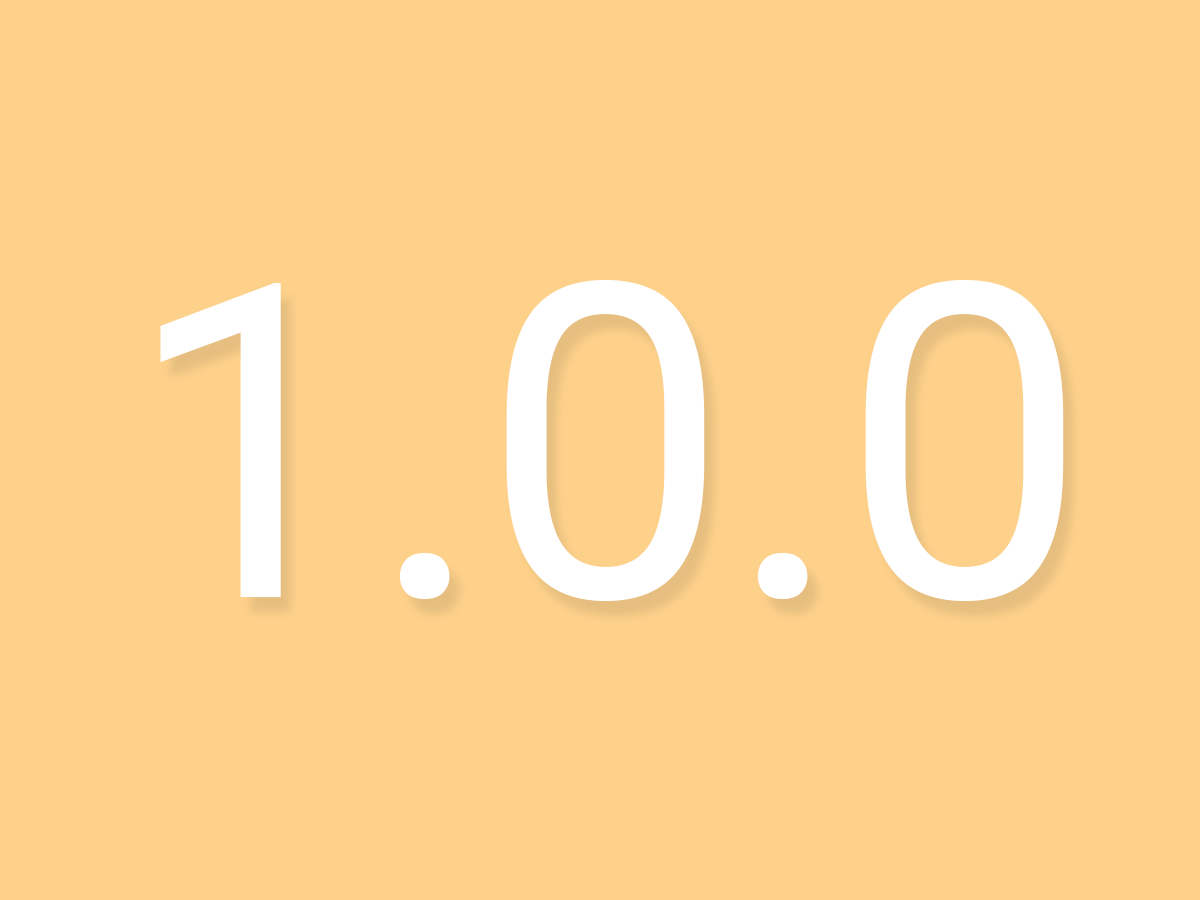
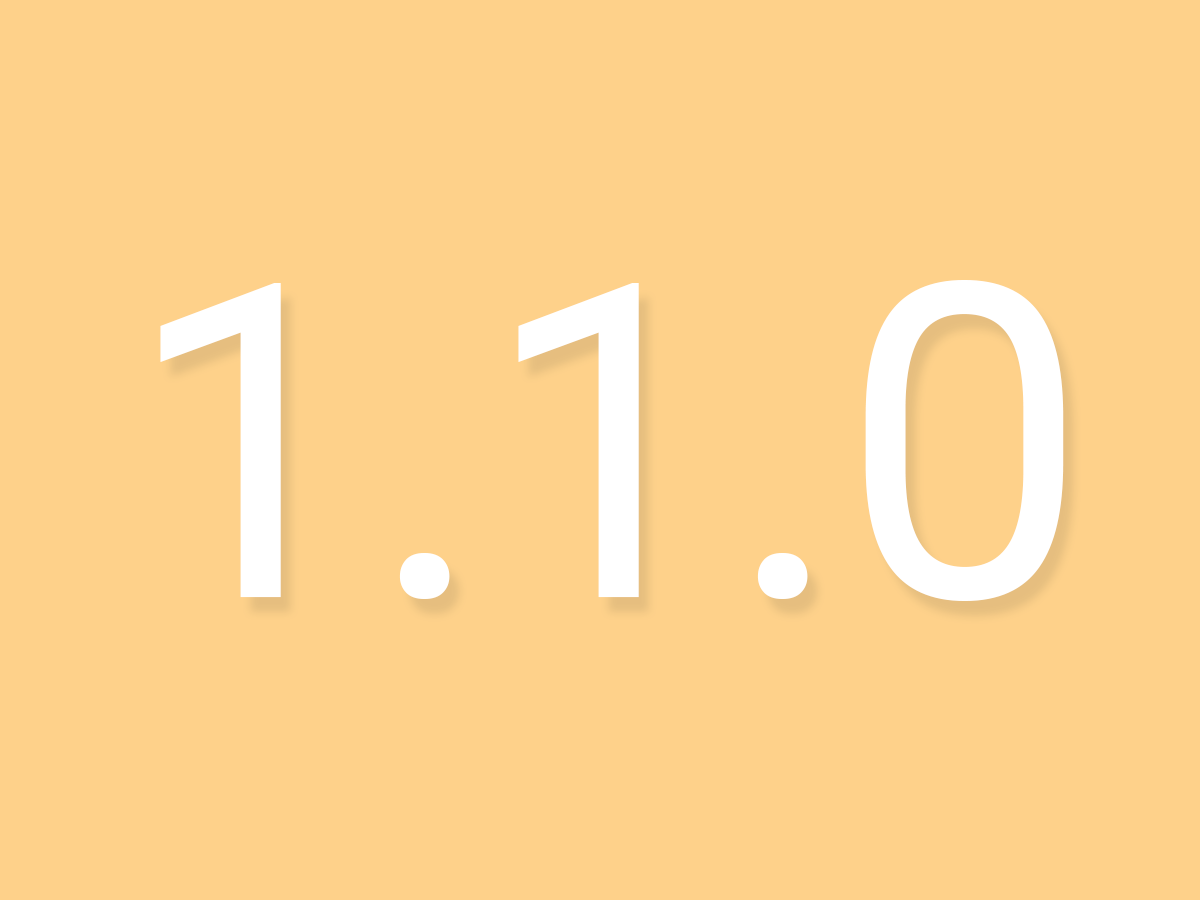
Bump to 1.1.0

Changed region(s): [[0.4008, 0.3111, 0.5858, 0.6844]]

diff --git a/style.css b/style.css
@@ -7,7 +7,7 @@ Description: The WordPress theme for Marco Di Bella's personal website (full sit
 Requires at least: 6.0
 Tested up to: 6.1
 Requires PHP: 7
-Version: 1.0.0
+Version: 1.1.0
 Text Domain: mdb
 Tags: gutenberg, block-editor, full-site-editing, translation-ready, responsive, variable-font-size
 */
